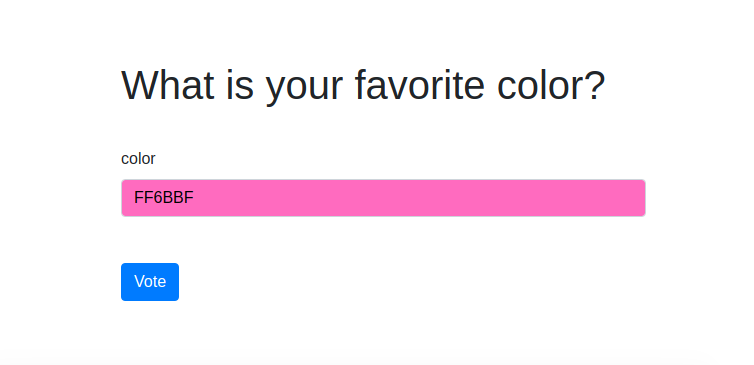
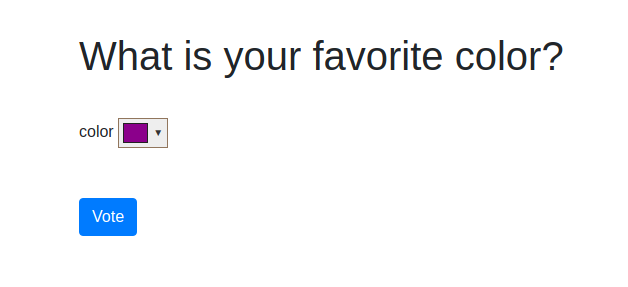
modified:   ../colorfield/templates/colorfield/color.html 	modified:   README.md 	modified:   img/example3.png

Changed region(s): [[0.121, 0.3902, 0.8774, 0.6132], [0.121, 0.1394, 0.9076, 0.3066], [0.121, 0.669, 0.242, 0.8362]]

diff --git a/colorfield/templates/colorfield/color.html b/colorfield/templates/colorfield/color.html
@@ -1,19 +1,19 @@
 <script src="https://cdnjs.cloudflare.com/ajax/libs/spectrum/1.8.0/spectrum.min.js"></script>
 <link rel="stylesheet" type="text/css" href="https://cdnjs.cloudflare.com/ajax/libs/spectrum/1.8.0/spectrum.min.css">
-<input name="{{ name }}" type='text' {% if value %}value="{{ value }}"{% endif %} id="{{ attrs.id }}" class="{% if class %}{{ class }}{% endif %}"/>
+<input name="{{ name }}" type='text' id="{{ attrs.id }}" class="{% if class %}{{ class }}{% endif %}"/>
 
 <script>
 $(document).ready(function(){
 
     $("#{{ attrs.id }}").spectrum({
-        preferredFormat: "hex",
+        preferredFormat: "name",
         {% if COLORFIELD_PALETTE %}
         showPaletteOnly: true,
         showPalette:true,
         palette: [
             [{% for color in palette %}"{{ color }}"{% if forloop.last %}{% else %},{% endif %}{% endfor %}]
-        ]
-        {% endif %}        
+        ],
+        {% endif %}   
         {% if COLORFIELD_DEFAULT %}color: '{{ COLORFIELD_DEFAULT }}'{% else %}color: "darkmagenta"{% endif %},
     });
 

diff --git a/example/README.md b/example/README.md
@@ -1,6 +1,19 @@
 # django-colorfield-example
 
-This is the example Django polls app with fields that demonstrate the colorfield.
+This is the example Django polls app with fields that demonstrate the colorfield. You can run the two examples from the images on Docker Hub:
+
+**with a limited palette**
+
+```
+docker run -d -p 8000:8000 vanessa/django-colorfield:palette
+```
+
+and **without a palette**
+
+```
+docker run -d -p 8000:8000 vanessa/django-colorfield:all
+```
+
 Open to your browser at [127.0.0.1:8000](http://127.0.0.1:8000), and click the
 button to create the example poll. To build the image:
 
